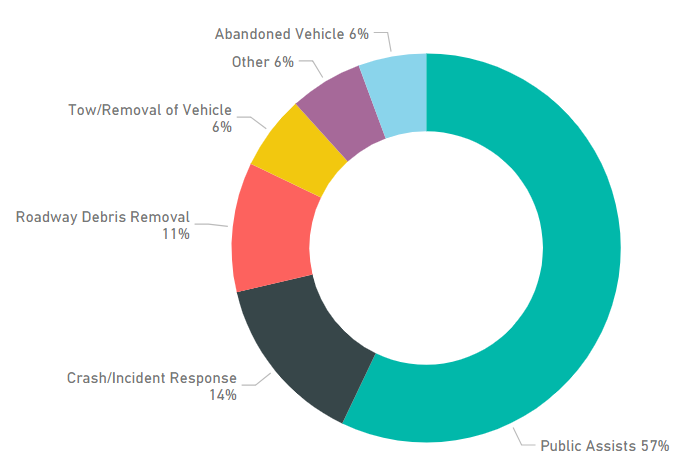
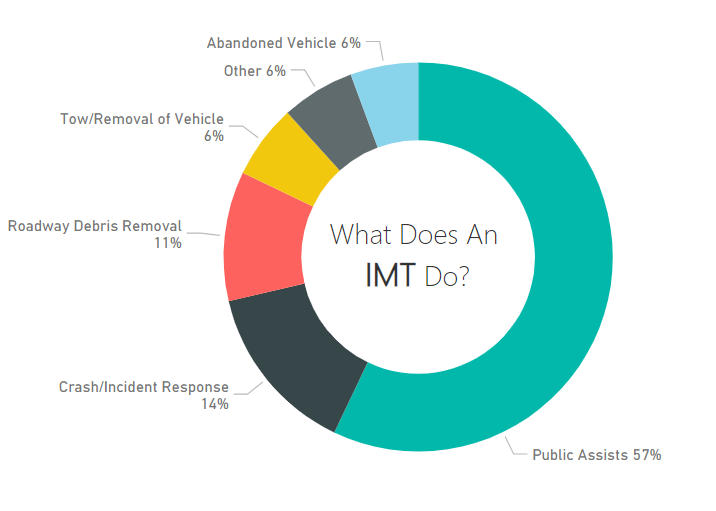
image update
new UAS update and new IMT chart

diff --git a/index.html b/index.html
@@ -707,7 +707,7 @@
                       <div class="modal-dialog modal-lg">
                         <div class="modal-content">
                           <div class="modal-header">
-                            <h5 class="modal-title">Road User Charge</h5>
+                            <h5 class="modal-title">Road Usage Charge</h5>
                             <button class="close" type="button" data-dismiss="modal" aria-label="Close"><span aria-hidden="true">x</span></button>
                           </div>
                           <div class="modal-body">
@@ -750,7 +750,7 @@
                           <div class="container-fluid">
                             <div class="row">
                               <div class="col-12 text-dark">
-                                <img class="float-right" src="img/VTOL Nav Altitude.png">
+                                <img class="float-right" src="img/UAS.png">
                                 <h5>Unmanned Aerial Vehicles</h5>
                                 <p>The use of Unmanned Aircraft Systems (UAS) is expanding rapidly into the transportation industry.   UAS provides a wide variety of operational, societal, and economic benefits.</p>
                                 <h5>IMT</h5>
